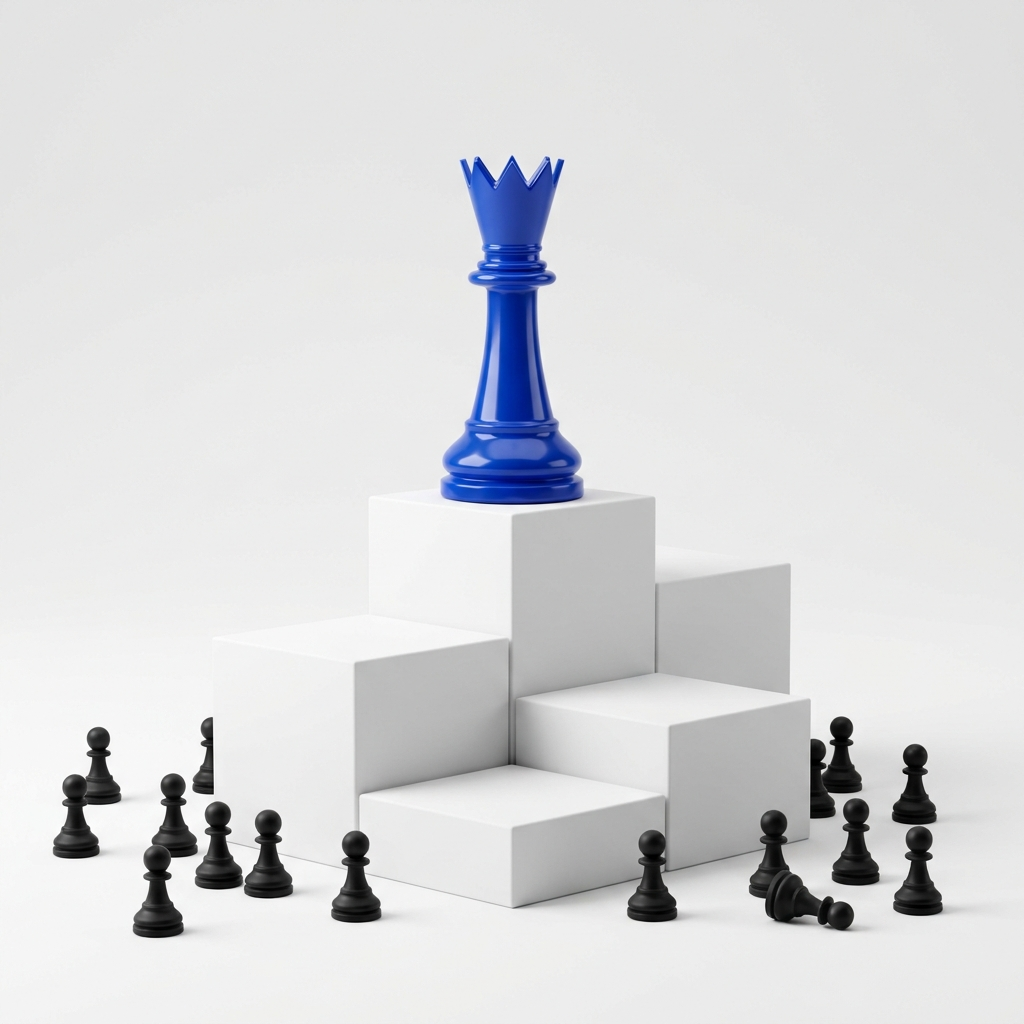
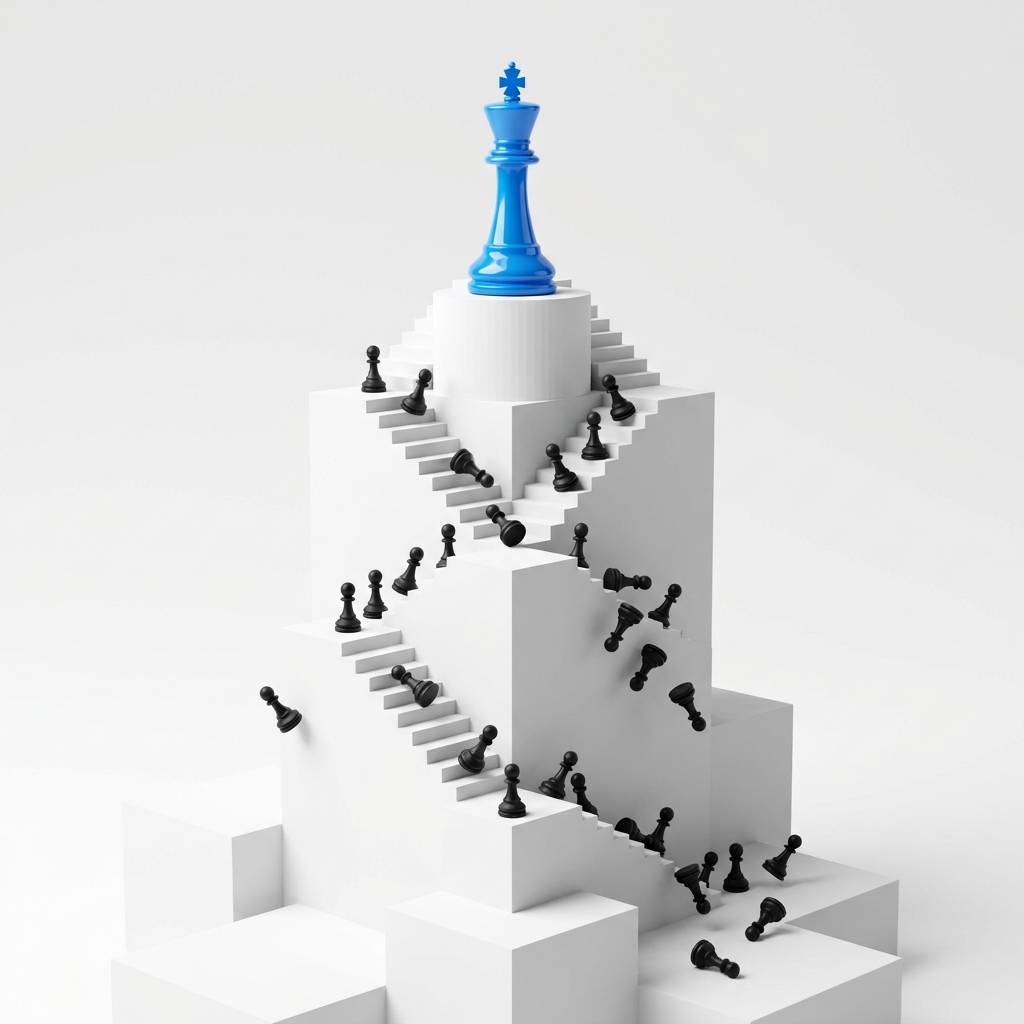
feat(design): glassy dark navbar capsule, climbing/falling pawn animations, and remove profile subtitle

Changed region(s): [[0.0312, 0.0625, 0.9375, 1.0], [0.2812, 0.9688, 0.4062, 1.0], [0.25, 0.6562, 0.3125, 0.7188]]

diff --git a/style.css b/style.css
@@ -154,13 +154,13 @@ a {
     display: flex;
     justify-content: space-between;
     align-items: center;
-    padding: 0.55rem 1.5rem;
-    background: rgba(255, 255, 255, 0.88);
-    backdrop-filter: blur(16px);
-    -webkit-backdrop-filter: blur(16px);
+    padding: 0.65rem 1.75rem;
+    background: rgba(15, 23, 42, 0.75);
+    backdrop-filter: blur(20px);
+    -webkit-backdrop-filter: blur(20px);
     border-radius: var(--radius-pill);
-    border: 1px solid rgba(226, 232, 240, 0.9);
-    box-shadow: 0 10px 30px -8px rgba(15, 23, 42, 0.08);
+    border: 1px solid rgba(255, 255, 255, 0.16);
+    box-shadow: 0 15px 35px -5px rgba(0, 0, 0, 0.35);
 }
 
 .nav-brand-hertz {
@@ -170,7 +170,35 @@ a {
     font-family: 'Outfit', sans-serif;
     font-weight: 800;
     font-size: 1.05rem;
-    color: var(--text-primary);
+    color: #ffffff;
+}
+
+.hertz-nav-link {
+    color: rgba(255, 255, 255, 0.8) !important;
+    padding: 0.35rem 0.85rem;
+    border-radius: 50px;
+    font-size: 0.78rem;
+    font-weight: 700;
+    transition: all 0.2s ease;
+}
+
+.hertz-nav-link:hover, .hertz-nav-link.active {
+    color: #ffffff !important;
+    background: var(--hertz-gradient);
+    box-shadow: 0 4px 15px rgba(245, 158, 11, 0.35);
+}
+
+.nav-user-pill {
+    display: flex;
+    align-items: center;
+    gap: 0.5rem;
+    background: rgba(255, 255, 255, 0.1);
+    border: 1px solid rgba(255, 255, 255, 0.2);
+    padding: 0.3rem 0.85rem;
+    border-radius: 50px;
+    color: #ffffff;
+    font-size: 0.82rem;
+    font-weight: 600;
 }
 
 .brand-logo-icon {
@@ -2140,6 +2168,124 @@ a {
     50% {
         transform: translateX(-50%) translateY(-8px);
         box-shadow: 0 18px 40px rgba(37, 99, 235, 0.6), 0 0 30px rgba(37, 99, 235, 0.4);
+    }
+}
+
+/* ==========================================================================
+   ANIMATED PAWN CLIMBING & FALLING KEYFRAMES
+   ========================================================================== */
+.animated-pawn {
+    position: absolute;
+    z-index: 8;
+    color: #0f172a;
+    font-size: 1.5rem;
+    filter: drop-shadow(0 4px 8px rgba(0, 0, 0, 0.25));
+    display: flex;
+    flex-direction: column;
+    align-items: center;
+}
+
+.pawn-status-bubble {
+    font-family: 'Inter', sans-serif;
+    font-size: 0.6rem;
+    font-weight: 800;
+    background: #2563eb;
+    color: #ffffff;
+    padding: 0.15rem 0.45rem;
+    border-radius: 50px;
+    margin-top: 0.15rem;
+    white-space: nowrap;
+    box-shadow: 0 4px 10px rgba(37, 99, 235, 0.3);
+}
+
+.pawn-status-bubble.fail-bubble {
+    background: #dc2626;
+    box-shadow: 0 4px 10px rgba(220, 38, 38, 0.4);
+    animation: pulseFail 1s infinite alternate;
+}
+
+@keyframes pulseFail {
+    0% { transform: scale(0.95); }
+    100% { transform: scale(1.05); }
+}
+
+/* Left Pawn Climbing and Falling Loop */
+.pawn-climb-left {
+    bottom: 18%;
+    left: 24%;
+    animation: climbAndFallLeft 4.5s cubic-bezier(0.45, 0, 0.55, 1) infinite;
+}
+
+@keyframes climbAndFallLeft {
+    0% {
+        bottom: 18%;
+        left: 24%;
+        transform: rotate(0deg) scale(0.9);
+        opacity: 0.8;
+    }
+    35% {
+        bottom: 42%;
+        left: 36%;
+        transform: rotate(-15deg) scale(1);
+        opacity: 1;
+    }
+    50% {
+        bottom: 48%;
+        left: 38%;
+        transform: rotate(-75deg) scale(1.05);
+        opacity: 1;
+    }
+    75% {
+        bottom: 15%;
+        left: 18%;
+        transform: rotate(-210deg) scale(0.85);
+        opacity: 0.9;
+    }
+    90%, 100% {
+        bottom: 18%;
+        left: 24%;
+        transform: rotate(-360deg) scale(0.9);
+        opacity: 0.8;
+    }
+}
+
+/* Right Pawn Climbing and Falling Loop */
+.pawn-climb-right {
+    bottom: 22%;
+    right: 22%;
+    animation: climbAndFallRight 5.2s cubic-bezier(0.45, 0, 0.55, 1) infinite 1.8s;
+}
+
+@keyframes climbAndFallRight {
+    0% {
+        bottom: 22%;
+        right: 22%;
+        transform: rotate(0deg) scale(0.9);
+        opacity: 0.8;
+    }
+    35% {
+        bottom: 48%;
+        right: 36%;
+        transform: rotate(20deg) scale(1);
+        opacity: 1;
+    }
+    50% {
+        bottom: 54%;
+        right: 38%;
+        transform: rotate(85deg) scale(1.08);
+        opacity: 1;
+    }
+    75% {
+        bottom: 12%;
+        right: 16%;
+        transform: rotate(240deg) scale(0.8);
+        opacity: 0.85;
+    }
+    90%, 100% {
+        bottom: 22%;
+        right: 22%;
+        transform: rotate(360deg) scale(0.9);
+        opacity: 0.8;
     }
 }
 

diff --git a/index.html b/index.html
@@ -77,7 +77,6 @@
                         <img src="profile.jpg" alt="Ramannjneyulu Peruboeena Profile Photo" class="hertz-avatar">
                         <div class="avatar-meta">
                             <h4 class="profile-name">Ramannjneyulu Peruboeena</h4>
-                            <p class="profile-subtitle">Your profile is looking awesome</p>
                             <a href="mailto:Ramanji9421@gmail.com" class="profile-link">Elevate your potential <i class="fa-solid fa-chevron-right"></i></a>
                         </div>
                     </div>
@@ -108,15 +107,14 @@
             </div>
         </section>
 
-        <!-- Hertz Daily Inspiration / Executive Motto Quote Callout -->
-        <section class="section-inspiration-hertz">
-            <div class="hertz-inspiration-container" data-aos="fade-up">
-                <div class="inspiration-text-side">
-                    <h2 class="hertz-heading-title">Explore your future at <span class="gradient-text-hertz">Ramannjneyulu</span></h2>
+        <!-- Hertz Inspiration Callout Quote Box -->
+        <section class="section-inspiration-hertz" data-aos="fade-up">
+            <div class="hertz-inspiration-container">
+                <div class="hertz-inspiration-text">
+                    <h3 class="hertz-heading-title">Explore your future at <span class="accent-pink">Ramannjneyulu</span></h3>
                     <p class="hertz-body-subtext">Your centralized cockpit for professional evolution. Map your trajectory, bridge skill gaps, and connect with global enterprise teams.</p>
                 </div>
-                
-                <!-- Hertz Warm Callout Quote Block -->
+
                 <div class="hertz-quote-card">
                     <div class="quote-tag">DAILY INSPIRATION</div>
                     <blockquote class="quote-body">
@@ -154,9 +152,20 @@
                                     </div>
                                 </div>
 
+                                <!-- Dynamic Climbing & Falling Pawns -->
+                                <div class="animated-pawn pawn-climb-left">
+                                    <i class="fa-solid fa-chess-pawn"></i>
+                                    <span class="pawn-status-bubble">Climbing...</span>
+                                </div>
+
+                                <div class="animated-pawn pawn-climb-right">
+                                    <i class="fa-solid fa-chess-pawn"></i>
+                                    <span class="pawn-status-bubble fail-bubble">Slipping! ⚠</span>
+                                </div>
+
                                 <!-- Pawns Base Tag -->
                                 <div class="pawns-label-tag">
-                                    <i class="fa-solid fa-user-group"></i> Routine Task Managers
+                                    <i class="fa-solid fa-user-group"></i> Routine Task Managers (Falling Back)
                                 </div>
 
                                 <div class="graphic-floating-chip">
